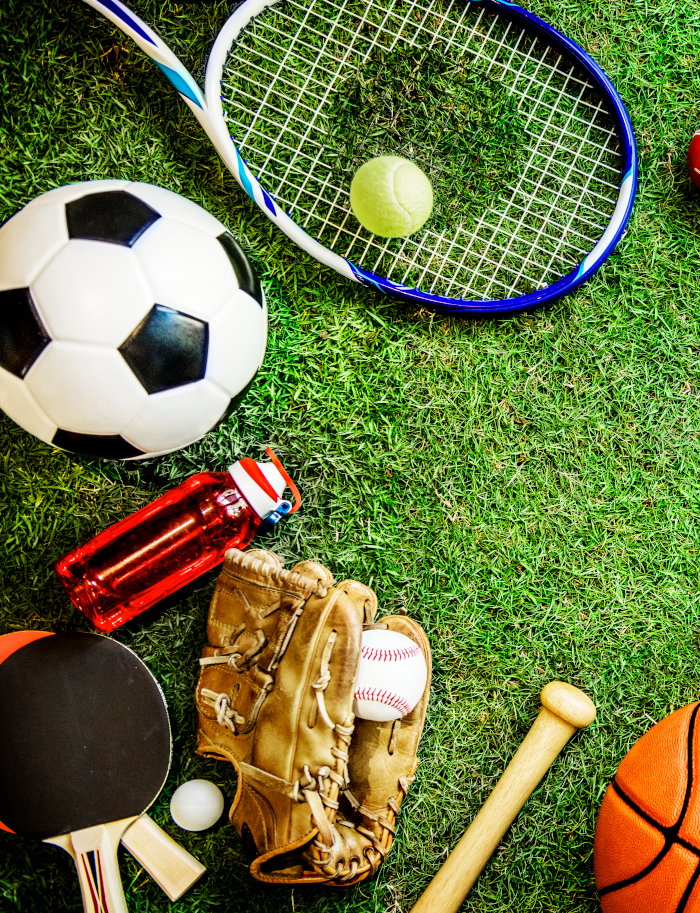
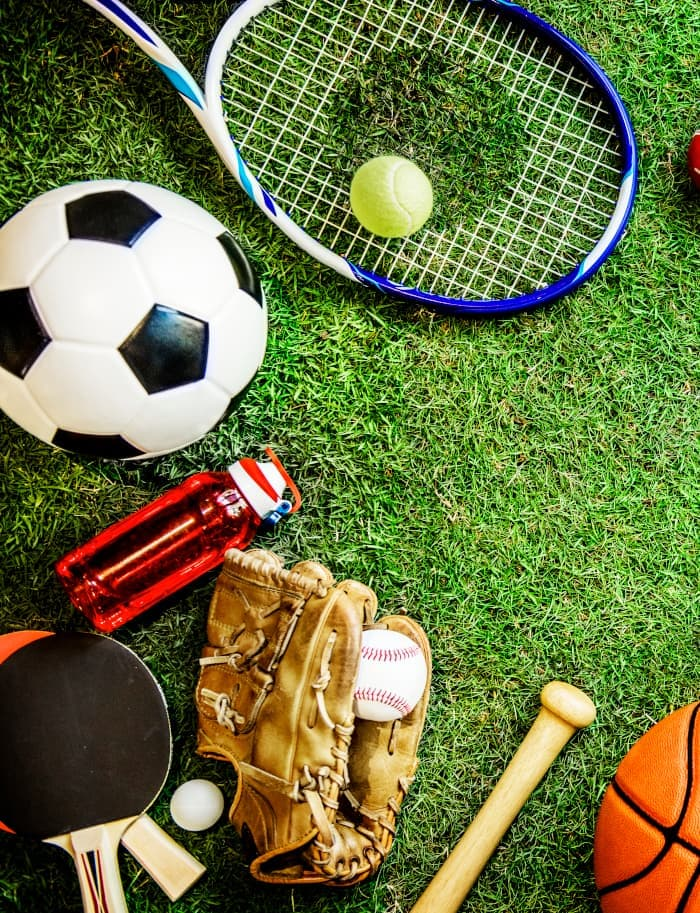
refactor(frontend): optimize hero images with WebP format and LQIP, improve event card layout and remove beta label
Add WebP version of sports-bg.jpg with LQIP (Low Quality Image Placeholder) using base64-encoded 20px blur-up technique for instant visual feedback. Implement picture element with WebP source and JPG fallback, add fetchpriority="high" and loading="eager" for hero images. Replace cover image validation with error handling using (error) event.

Update event card layout: remove gender

diff --git a/frontend/src/app/shared/ui/event-info-grid/event-info-grid.component.html b/frontend/src/app/shared/ui/event-info-grid/event-info-grid.component.html
@@ -8,10 +8,10 @@
   <h3 class="text-base font-bold text-neutral-900">Szczegóły wydarzenia</h3>
 }
 
-<div class="rounded-2xl border border-neutral-200 bg-white overflow-hidden" [class.mt-2]="showHeader()">
-  <div class="grid gap-1 grid-cols-[repeat(auto-fit,minmax(160px,max-content))] justify-center">
+<div class="rounded-2xl bg-white overflow-hidden" [class.mt-2]="showHeader()">
+  <div class="grid gap-0.5 grid-cols-[repeat(auto-fit,minmax(160px,max-content))]">
     @if (isShown('date')) {
-      <div class="flex items-center gap-2.5 px-2 py-2">
+      <div class="flex items-center gap-1 px-4 py-1">
         <span class="flex h-8 w-8 shrink-0 items-center justify-center rounded-lg bg-blue-50">
           <app-icon name="calendar" size="sm" color="primary"></app-icon>
         </span>
@@ -25,7 +25,7 @@
     }
 
     @if (isShown('time')) {
-      <div class="flex items-center gap-2.5 px-2 py-2">
+      <div class="flex items-center gap-1 px-4 py-1">
         <span class="flex h-8 w-8 shrink-0 items-center justify-center rounded-lg bg-blue-50">
           <app-icon name="clock" size="sm" color="primary"></app-icon>
         </span>
@@ -39,7 +39,7 @@
     }
 
     @if (isShown('duration') && _eventDuration) {
-      <div class="flex items-center gap-2.5 px-2 py-2">
+      <div class="flex items-center gap-1 px-4 py-1">
         <span class="flex h-8 w-8 shrink-0 items-center justify-center rounded-lg bg-blue-50">
           <app-icon name="sun" size="sm" color="primary"></app-icon>
         </span>
@@ -53,7 +53,7 @@
     @if (isShown('location')) {
       <button
         type="button"
-        class="flex items-center gap-2.5 px-2 py-2 text-left transition-colors hover:bg-neutral-50 w-full"
+        class="flex items-center gap-1 px-4 py-1 text-left transition-colors hover:bg-neutral-50 w-full"
         (click)="onAddressClick()"
       >
         <span class="flex h-8 w-8 shrink-0 items-center justify-center rounded-lg bg-orange-50">
@@ -69,7 +69,7 @@
     }
 
     @if (isShown('city') && e.city) {
-      <div class="flex items-center gap-2.5 px-2 py-2">
+      <div class="flex items-center gap-1 px-4 py-1">
         <span class="flex h-8 w-8 shrink-0 items-center justify-center rounded-lg bg-orange-50">
           <app-icon name="home" size="sm" color="warning"></app-icon>
         </span>
@@ -81,7 +81,7 @@
     }
 
     @if (isShown('cost')) {
-      <div class="flex items-center gap-2.5 px-2 py-2">
+      <div class="flex items-center gap-1 px-4 py-1">
         <span class="flex h-8 w-8 shrink-0 items-center justify-center rounded-lg bg-green-50">
           <app-icon name="credit-card" size="sm" color="success"></app-icon>
         </span>
@@ -93,7 +93,7 @@
     }
 
     @if (isShown('enrollment') && _enrollmentLabel) {
-      <div class="flex items-center gap-2.5 px-2 py-2">
+      <div class="flex items-center gap-1 px-4 py-1">
         <span class="flex h-8 w-8 shrink-0 items-center justify-center rounded-lg bg-green-50">
           <app-icon name="check-circle" size="sm" color="success"></app-icon>
         </span>
@@ -105,7 +105,7 @@
     }
 
     @if (isShown('maxParticipants') && e.maxParticipants) {
-      <div class="flex items-center gap-2.5 px-2 py-2">
+      <div class="flex items-center gap-1 px-4 py-1">
         <span class="flex h-8 w-8 shrink-0 items-center justify-center rounded-lg bg-purple-50">
           <app-icon name="users" size="sm" color="info"></app-icon>
         </span>
@@ -117,7 +117,7 @@
     }
 
     @if (isShown('gender')) {
-      <div class="flex items-center gap-2.5 px-2 py-2">
+      <div class="flex items-center gap-1 px-4 py-1">
         <span class="flex h-8 w-8 shrink-0 items-center justify-center rounded-lg bg-purple-50">
           <app-icon name="user" size="sm" color="info"></app-icon>
         </span>
@@ -129,7 +129,7 @@
     }
 
     @if (isShown('age') && _ageRange) {
-      <div class="flex items-center gap-2.5 px-2 py-2">
+      <div class="flex items-center gap-1 px-4 py-1">
         <span class="flex h-8 w-8 shrink-0 items-center justify-center rounded-lg bg-pink-50">
           <app-icon name="filter" size="sm" color="warning"></app-icon>
         </span>
@@ -141,7 +141,7 @@
     }
 
     @if (isShown('roles') && _roles) {
-      <div class="flex items-center gap-2.5 px-2 py-2">
+      <div class="flex items-center gap-1 px-4 py-1">
         <span class="flex h-8 w-8 shrink-0 items-center justify-center rounded-lg bg-purple-50">
           <app-icon name="star" size="sm" color="info"></app-icon>
         </span>

diff --git a/frontend/src/app/shared/event/ui/event-card/event-card.component.ts b/frontend/src/app/shared/event/ui/event-card/event-card.component.ts
@@ -130,29 +130,26 @@ import { DateLabelsService } from '../../../services/date-labels.service';
               event().startsAt | eventDuration: event().endsAt
             }})
           </span>
-          <span class="flex items-center gap-1">
-            <app-icon name="users" size="xs" color="neutral" muted="light" />
-            {{ genderLabel() }}
-          </span>
         </div>
 
         <div class="flex items-center justify-between">
           <app-capacity-progress
-            class="w-60"
+            class="flex-1 max-w-[250px]"
             [current]="_event._count?.participations ?? 0"
             [max]="_event.maxParticipants ?? 0"
           />
-          @if (_event.costPerPerson > 0) {
-            <span class="flex items-center gap-1 text-sm font-semibold text-success-400">
-              <app-icon name="dollar-sign" size="xs" color="success" />
+
+          <span
+            class="flex items-center gap-1 text-sm font-semibold text-success-400 w-24 justify-end"
+          >
+            @if (_event.costPerPerson > 0) {
+              <app-icon name="credit-card" size="xs" color="success" />
               {{ _event.costPerPerson | number: '1.0-2' }} zł
-            </span>
-          } @else {
-            <span class="flex items-center gap-1 text-sm font-semibold text-success-400">
+            } @else {
               <app-icon name="check-circle" size="xs" color="success" />
               Bezpłatne
-            </span>
-          }
+            }
+          </span>
         </div>
       </div>
     </button>
@@ -204,14 +201,6 @@ export class EventCardComponent implements OnDestroy {
     const cd = this.countdown();
     if (!cd) return '';
     return this.dateLabels.formatCountdownLabel(cd);
-  });
-
-  readonly genderLabel = computed(() => {
-    const g = this.event().gender;
-    if (!g || g === 'ANY') return 'Wszyscy';
-    if (g === 'MALE') return 'Mężczyźni';
-    if (g === 'FEMALE') return 'Kobiety';
-    return g;
   });
 
   readonly badgeLabel = computed(() => {

diff --git a/frontend/src/app/features/home/pages/home/home.component.html b/frontend/src/app/features/home/pages/home/home.component.html
@@ -1,20 +1,33 @@
-<img src="assets/images/sports-bg.jpg" alt="" class="absolute inset-0 h-full w-full object-cover" />
+<div class="sports-bg-lqip absolute inset-0">
+  <picture>
+    <source srcset="assets/images/sports-bg.webp" type="image/webp" />
+    <img
+      src="assets/images/sports-bg.jpg"
+      alt=""
+      class="h-full w-full object-cover"
+      fetchpriority="high"
+      loading="eager"
+    />
+  </picture>
+</div>
 
 <div class="absolute inset-0 bg-gradient-to-b from-black/50 via-black/65 to-black/85"></div>
 
 <div class="relative z-10 flex flex-col items-center px-6">
   <div class="home-animate flex flex-1 flex-col items-center justify-center">
-    <h1 class="text-2xl sm:text-4xl font-extrabold tracking-tight text-white text-center">
-      Zgadaj się
+    <h1
+      class="text-3xl sm:text-4xl font-extrabold tracking-tight text-white text-center flex flex-col sm:flex-row sm:items-center sm:justify-center gap-1 sm:gap-2"
+    >
+      <span>Zgadaj się</span>
       <span class="text-primary-400">na wspólną grę!</span>
     </h1>
-    <p class="text-center sm:mt-2 text-xs sm:text-sm leading-relaxed font-semibold uppercase text-white/70">
+    <p class="text-center sm:mt-2 text-xs sm:text-sm leading-relaxed font-semibold uppercase text-white/60">
       Budujemy przyszłość lokalnych wydarzeń sportowych
     </p>
   </div>
 
   <div class="home-animate-delayed mt-auto w-sm">
-    <div class="flex max-w-sm flex-col gap-3">
+    <div class="flex max-w-sm flex-col gap-3 px-4">
       <p class="mt-6 text-center text-xs sm:text-sm text-white/90">
         Jesteśmy w trakcie rebrandingu – bądź częścią zmian:
       </p>

diff --git a/frontend/src/app/shared/layouts/page-layout/page-layout.component.ts b/frontend/src/app/shared/layouts/page-layout/page-layout.component.ts
@@ -108,19 +108,10 @@ export class PageLayoutComponent {
       }
     });
 
-    // ── Validate cover image URL ──
+    // ── Reset cover error state when URL changes ──
     effect(() => {
-      const url = this.coverUrl();
-      if (!url) {
-        this.coverImageValid.set(false);
-        return;
-      }
-
-      // Test if image exists by trying to load it
-      const img = new Image();
-      img.onload = () => this.coverImageValid.set(true);
-      img.onerror = () => this.coverImageValid.set(false);
-      img.src = url;
+      this.coverUrl(); // track dependency
+      this.coverImageError.set(false);
     });
   }
 
@@ -163,7 +154,7 @@ export class PageLayoutComponent {
 
   // ── Internal state ──
   readonly heroHidden = signal(false);
-  readonly coverImageValid = signal(false);
+  readonly coverImageError = signal(false);
   readonly currentYear = nowInZone().year;
 
   private observer: IntersectionObserver | null = null;
@@ -187,6 +178,10 @@ export class PageLayoutComponent {
     if (url) {
       this.router.navigateByUrl(url);
     }
+  }
+
+  onCoverImageError(): void {
+    this.coverImageError.set(true);
   }
 
   onNotifBellClick(): void {

diff --git a/frontend/src/app/features/event/pages/event-detail/event-detail.component.html b/frontend/src/app/features/event/pages/event-detail/event-detail.component.html
@@ -54,8 +54,8 @@
         </div>
       </a>
     } @else {
-      <a [routerLink]="['/w', e.city?.slug, e.id, 'participants']" class="my-2 flex items-center gap-3">
-        <div class="flex items-center gap-2">
+      <a [routerLink]="['/w', e.city?.slug, e.id, 'participants']" class="my-2 flex items-center gap-3 w-full">
+        <div class="flex items-center gap-2 w-full">
           @if (_participants.length > 0) {
             <div class="flex items-center -space-x-3 mr-3">
               @for (p of _visibleAvatars; track p.id; let i = $index) {
@@ -69,15 +69,12 @@
               }
             </div>
           }
-          <div>
-            <app-capacity-progress
-              class="w-50"
-              [current]="slotCount()"
-              [max]="e.maxParticipants"
-              unitKey="progress.participant"
-              mode="compact"
-            />
-          </div>
+          <app-capacity-progress
+            class="flex-1 min-w-0"
+            [current]="slotCount()"
+            [max]="e.maxParticipants"
+            unitKey="progress.participant"
+          />
         </div>
       </a>
     }

diff --git a/frontend/src/app/layout/footer/footer.component.html b/frontend/src/app/layout/footer/footer.component.html
@@ -1,11 +1,13 @@
 <footer class="w-full mx-auto p-4">
   <div class="text-center">
     <div class="home-animate flex flex-1 flex-col items-center justify-center">
-      <h1 class="text-xl font-extrabold tracking-tight text-gray-400 text-center">
-        Zgadaj się
+      <h1
+        class="text-xl font-extrabold tracking-tight text-gray-400 text-center flex flex-col sm:flex-row sm:items-center sm:justify-center gap-1 sm:gap-2 leading-none"
+      >
+        <span>Zgadaj sie</span>
         <span class="text-primary-400">na wspólną grę!</span>
       </h1>
-      <p class="text-center text-[10px] uppercase text-neutral-500/60">
+      <p class="text-center mt-2 text-[10px] uppercase text-neutral-500/60">
         Budujemy przyszłość lokalnych wydarzeń sportowych
       </p>
     </div>

diff --git a/frontend/src/app/shared/layouts/page-layout/page-layout.component.html b/frontend/src/app/shared/layouts/page-layout/page-layout.component.html
@@ -89,8 +89,15 @@
           @switch (layoutConfig.heroVariant()) {
             @case ('extended') {
               <!-- Cover image -->
-              @if (coverImageValid()) {
-                <img [src]="coverUrl()" alt="" class="absolute inset-0 h-full w-full object-cover" />
+              @if (coverUrl() && !coverImageError()) {
+                <img
+                  [src]="coverUrl()"
+                  alt=""
+                  class="absolute inset-0 h-full w-full object-cover"
+                  fetchpriority="high"
+                  decoding="async"
+                  (error)="onCoverImageError()"
+                />
               } @else {
                 <ng-container *ngTemplateOutlet="fallbackBackground"></ng-container>
               }

diff --git a/frontend/src/app/features/home/pages/home/home.component.scss b/frontend/src/app/features/home/pages/home/home.component.scss
@@ -1,3 +1,21 @@
+// LQIP blur-up placeholder — tiny 20px base64 WebP widoczny natychmiastowo,
+// przykryty przez właściwy obraz po jego załadowaniu
+.sports-bg-lqip {
[1 lines of base64/hex data omitted]
+    center / cover no-repeat #111;
+
+  picture {
+    display: contents;
+  }
+
+  img {
+    display: block;
+    width: 100%;
+    height: 100%;
+    object-fit: cover;
+  }
+}
+
 .home-animate {
   animation: homeSlideUp 0.8s ease-out;
 }

diff --git a/frontend/src/app/shared/ui/capacity-progress/capacity-progress.component.ts b/frontend/src/app/shared/ui/capacity-progress/capacity-progress.component.ts
@@ -78,7 +78,7 @@ export class CapacityProgressComponent {
   readonly barTextClass = 'text-[10px] font-semibold leading-none text-neutral-800'; // Ciemniejszy dla lepszej widoczności
   readonly subtitleClass = 'mt-1 text-[9px] leading-tight text-neutral-400';
   readonly rootClass = 'w-full';
-  readonly trackClass = 'mt-2 h-3 overflow-hidden rounded-full bg-neutral-200/70';
+  readonly trackClass = 'mt-2 h-3 overflow-hidden rounded-full bg-neutral-200/70 w-full';
 
   readonly barClass = computed(() => {
     return 'h-full rounded-full transition-all duration-300 ease-out';

diff --git a/frontend/src/app/layout/footer/bottom-nav.component.html b/frontend/src/app/layout/footer/bottom-nav.component.html
@@ -3,8 +3,6 @@
   class="h-[var(--footer-height)] border-t border-neutral-200 bg-white/95 px-2 py-2 shadow-[0_-4px_12px_rgba(15,23,42,0.12)] backdrop-blur-md relative"
   aria-label="Główna nawigacja dolna"
 >
-  <!-- Beta Version Label -->
-  <div class="absolute bottom-1 right-1 text-[9px] font-medium text-neutral-400 uppercase tracking-wider">BETA</div>
   <nav class="flex items-center justify-center text-xs font-medium text-neutral-500">
     <!-- Centered Actions -->
     <div class="grid grid-cols-4 gap-x-3">
